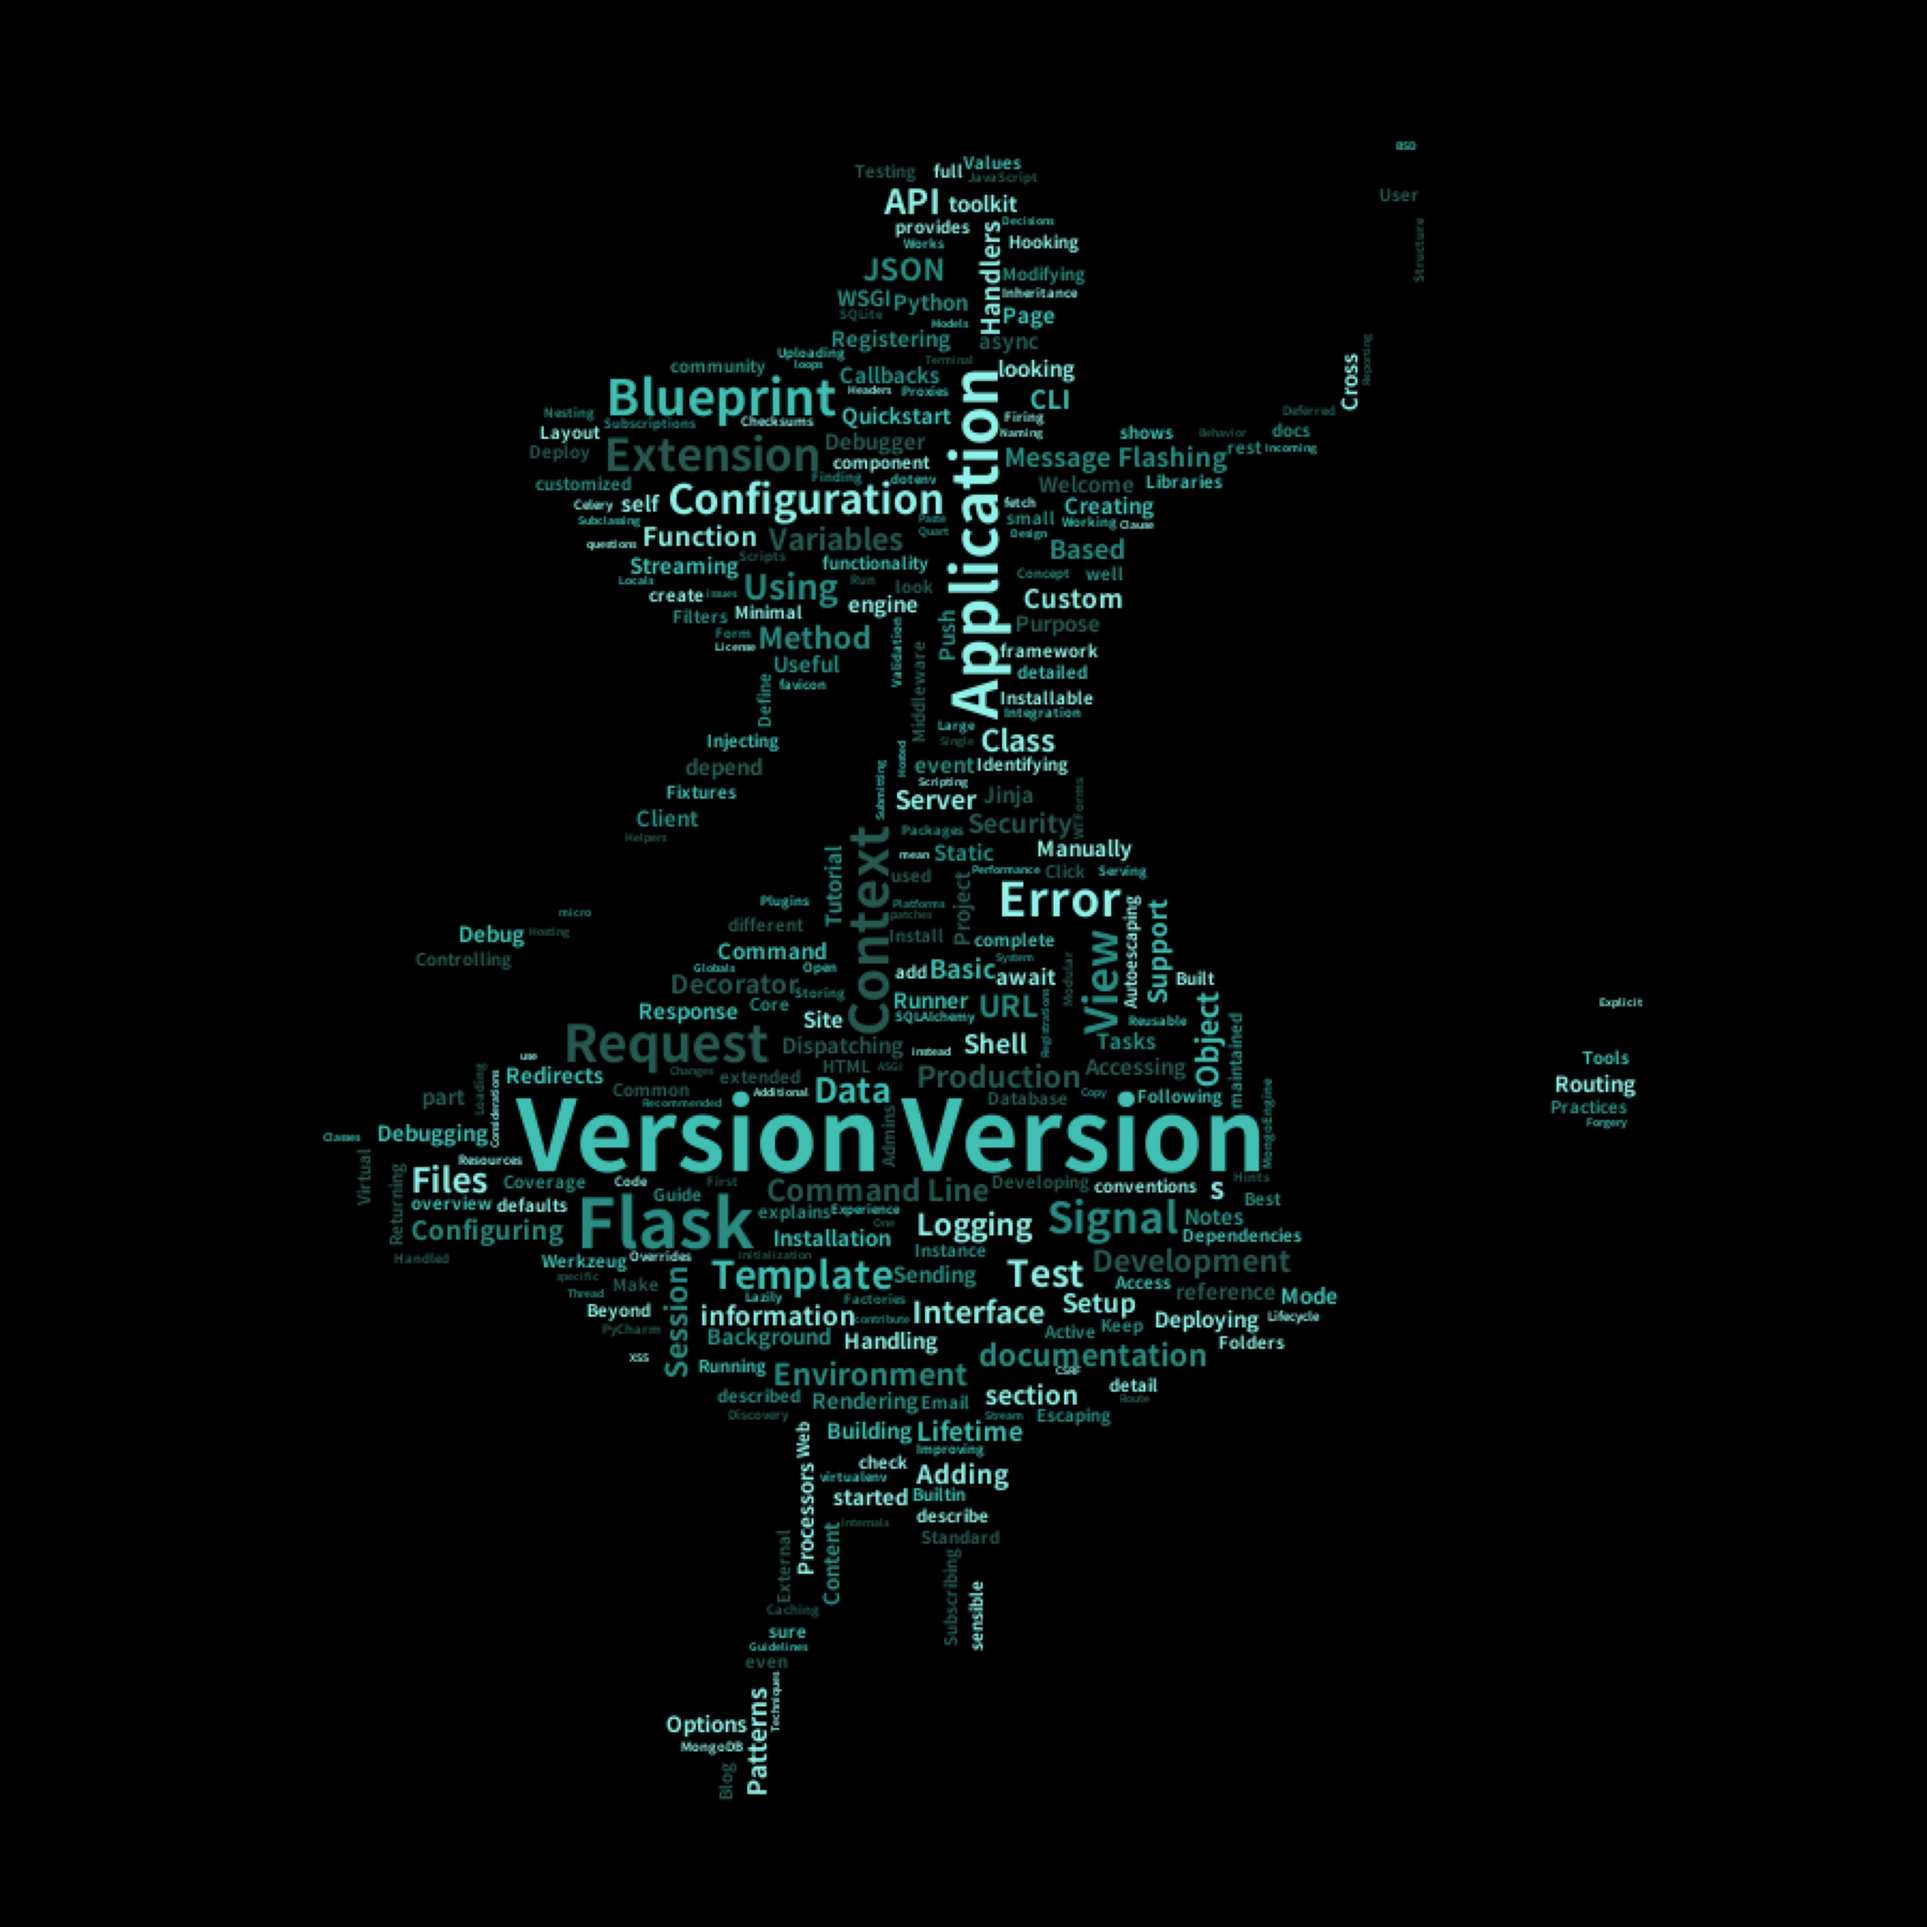
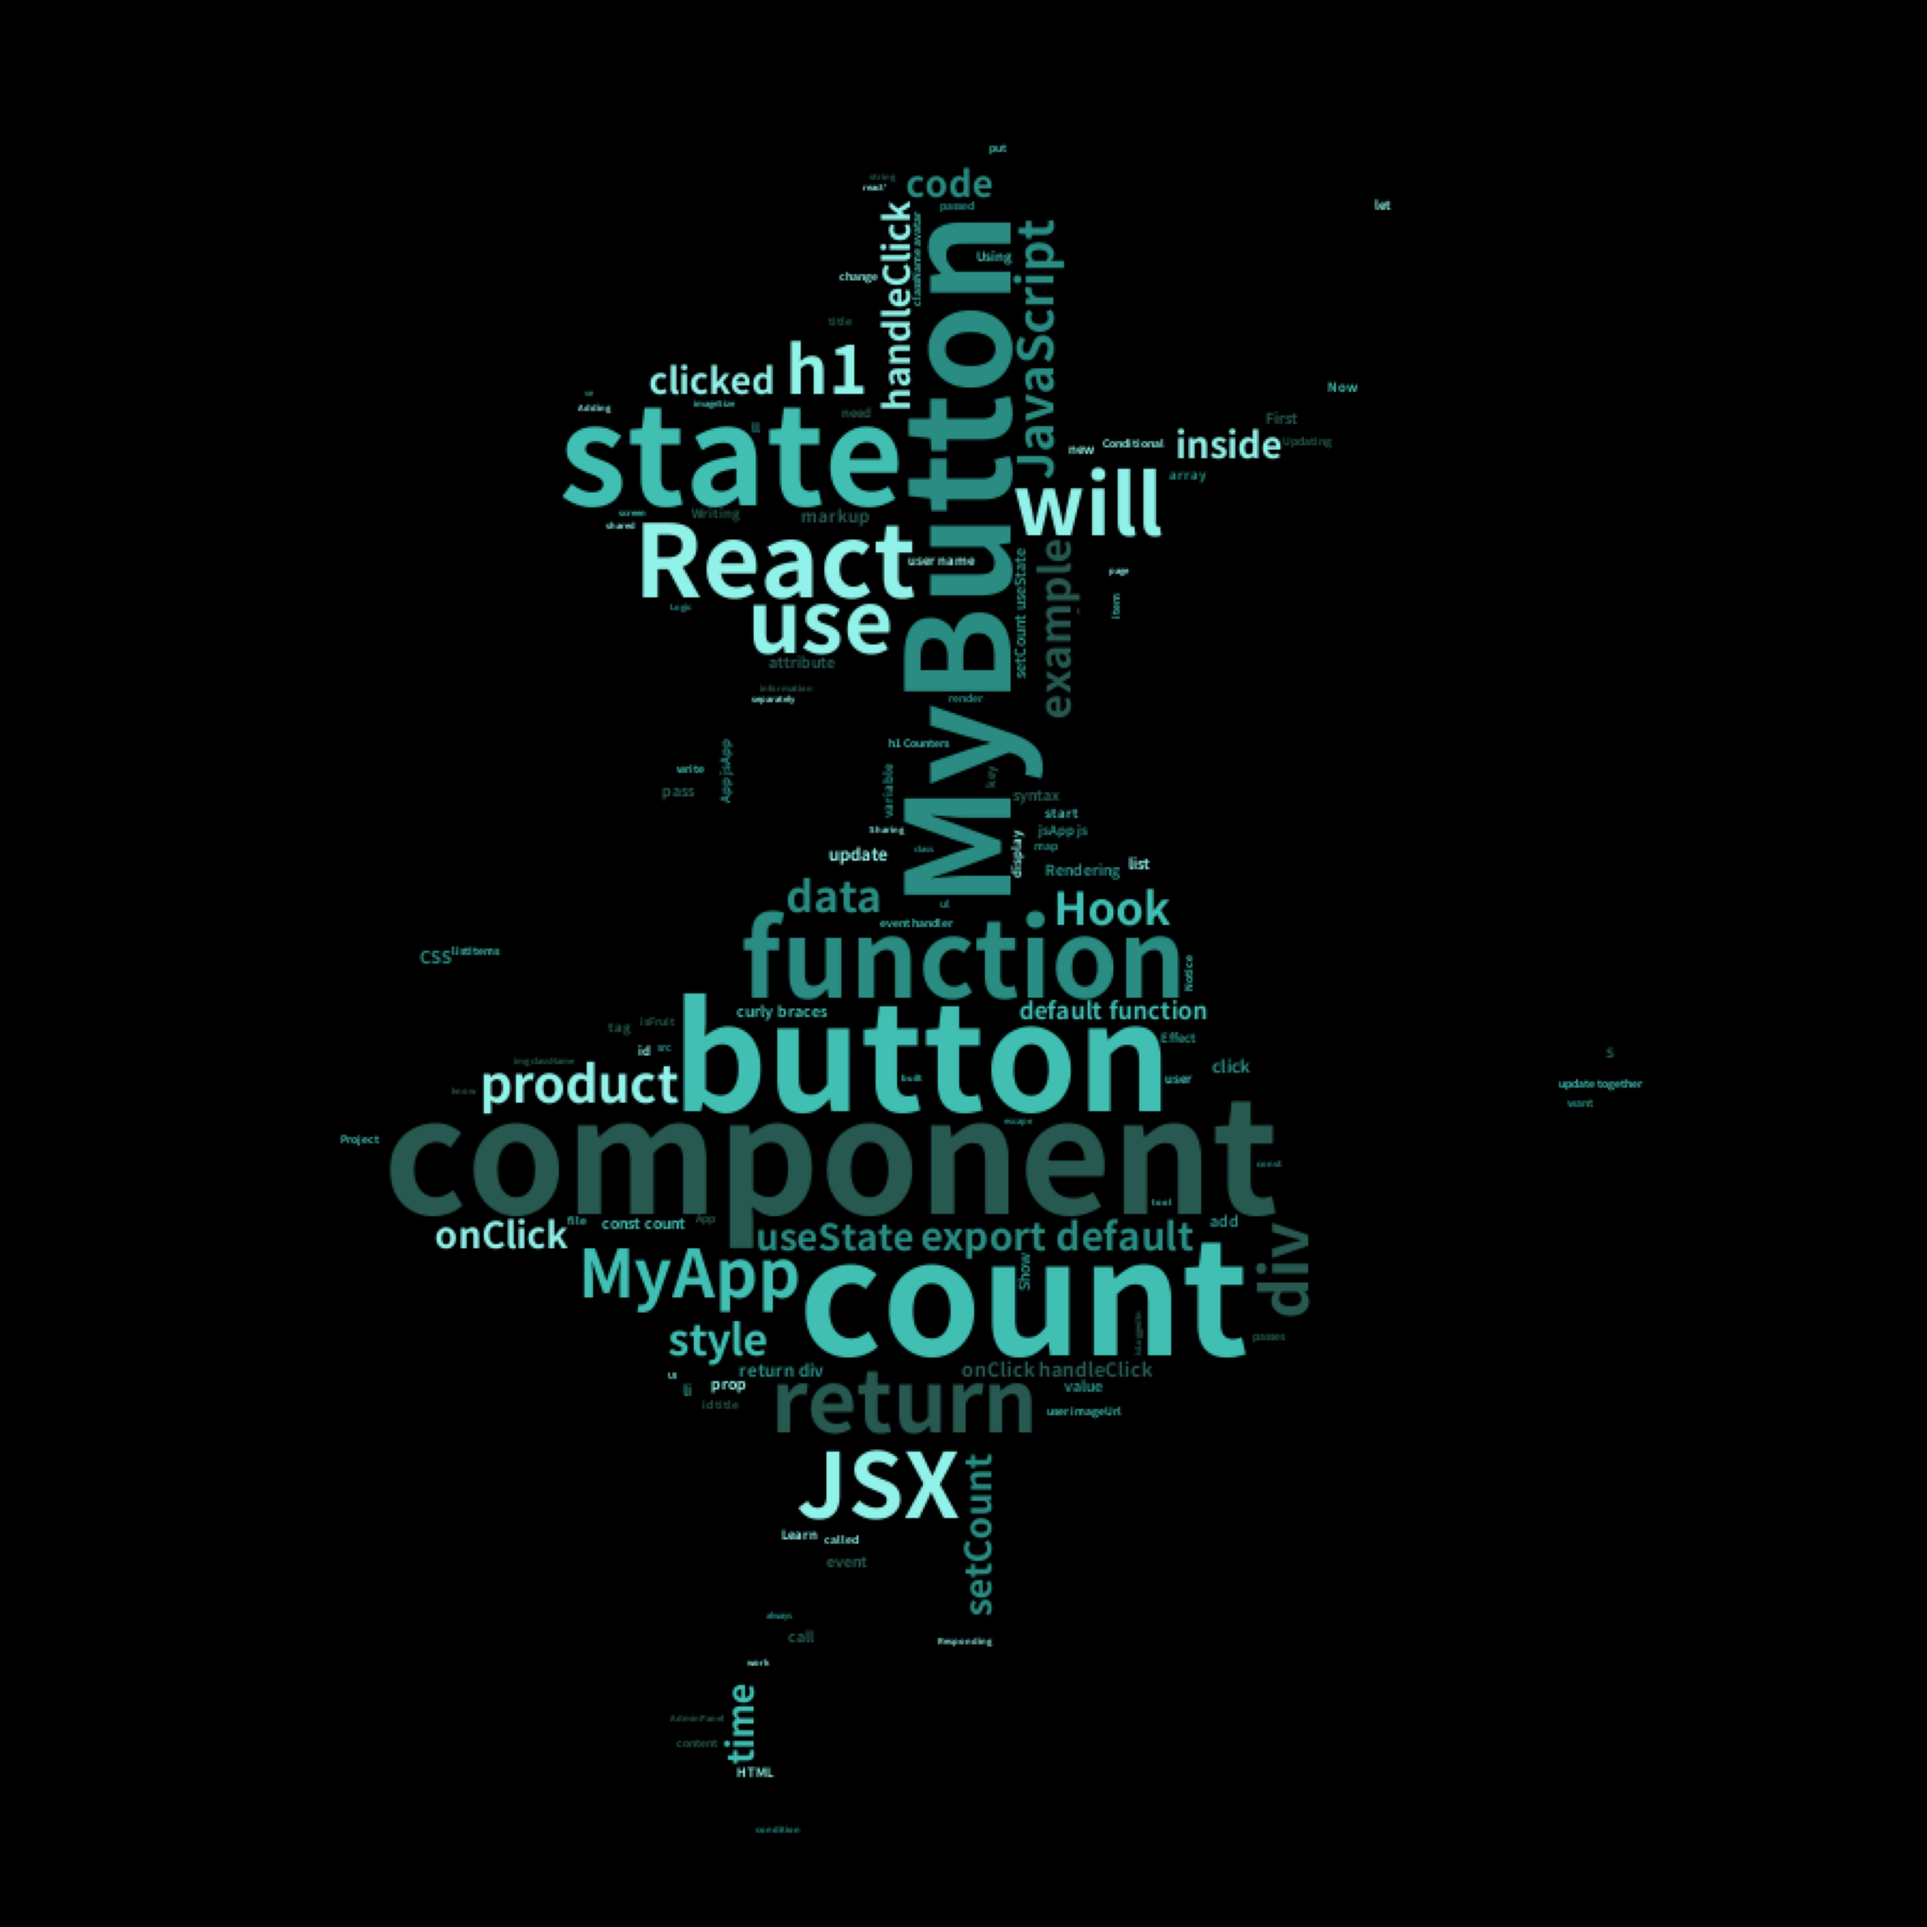
bs4 selectone 설정가능하게 변경

diff --git a/templates/index.html b/templates/index.html
@@ -16,8 +16,13 @@
     <div class="wrapper">
       <h1>워드클라우드 생성하기</h1>
       <section>
-        <form action="/generate_image" method="POST" class="input-link">
+        <form action="/generate_image" method="POST" class="input">
           <input type="text" name="link" placeholder="링크를 입력하세요!" />
+          <input
+            type="text"
+            name="bs-select"
+            placeholder="값을 입력하세요! (예시 : #welcome-to-flask)"
+          />
           <button>확인</button>
         </form>
       </section>

diff --git a/static/index.css b/static/index.css
@@ -17,12 +17,12 @@ body {
   font-size: 2rem;
 }
 
-.input-link {
+.input {
   display: flex;
   justify-content: space-between;
 }
 
-.input-link input {
+.input input {
   flex: 1;
   box-sizing: border-box;
   border: 1px solid rgb(220, 220, 220);
@@ -30,12 +30,12 @@ body {
   padding: 15px;
 }
 
-.input-link input:focus {
+.input input:focus {
   outline: none;
   border: 1px solid #275950;
 }
 
-.input-link button {
+.input button {
   margin-left: 2px;
   cursor: pointer;
   border: none;

diff --git a/main.py b/main.py
@@ -10,38 +10,33 @@ import requests
 
 app = Flask(__name__)
 
-
-def make_text(url):
-    response = requests.get(url)
-    if response.status_code == 200:
-        html = response.text
-        soup = BeautifulSoup(html, "lxml")
-        soup_text = soup.select_one('#welcome-to-flask').get_text()
-        return soup_text
-    else:
-        pass
-
 # 커스텀 색상 함수
 def custom_color_func(word, font_size, position, orientation, random_state=None, **kwargs):
     colors = ["#2A8C82", "#41BFB3", "#91F2E9", "#275950"]
     return random.choice(colors)
 
-@app.before_request
-def load_initial_text():
-    if 'text' not in g:
-        g.text = open('./static/src/alice.txt').read()
-
 # 이미지를 ndarray로 변환
 mask = np.array(Image.open('./static/src/alice_mask.png'))
 
-
 @app.route('/generate_image', methods=['POST'])
 def generate_image():
+    # index.html에서 값 가져오기
     link = request.form['link']
-    text = make_text(link)
+    bs_select = request.form['bs-select']
 
-    wordcloud = WordCloud(max_words=300, stopwords=STOPWORDS, mask=mask, background_color='black', color_func=custom_color_func, font_path='./static/src/NotoSansKR-Bold.ttf').generate(text)
+    # url로 beautifulsoup 생성
+    response = requests.get(link)
+    if response.status_code == 200:
+        html = response.text
+        soup = BeautifulSoup(html, "lxml")
+        soup_text = soup.select_one(bs_select).get_text()
+    else:
+        pass
 
+    # wordcloud 생성
+    wordcloud = WordCloud(max_words=300, stopwords=STOPWORDS, mask=mask, background_color='black', color_func=custom_color_func, font_path='./static/src/NotoSansKR-Bold.ttf').generate(soup_text)
+
+    # pyplot
     plt.figure(figsize=(10,10), frameon=False)
     plt.imshow(wordcloud)
     plt.axis('off') # 눈금 삭제
